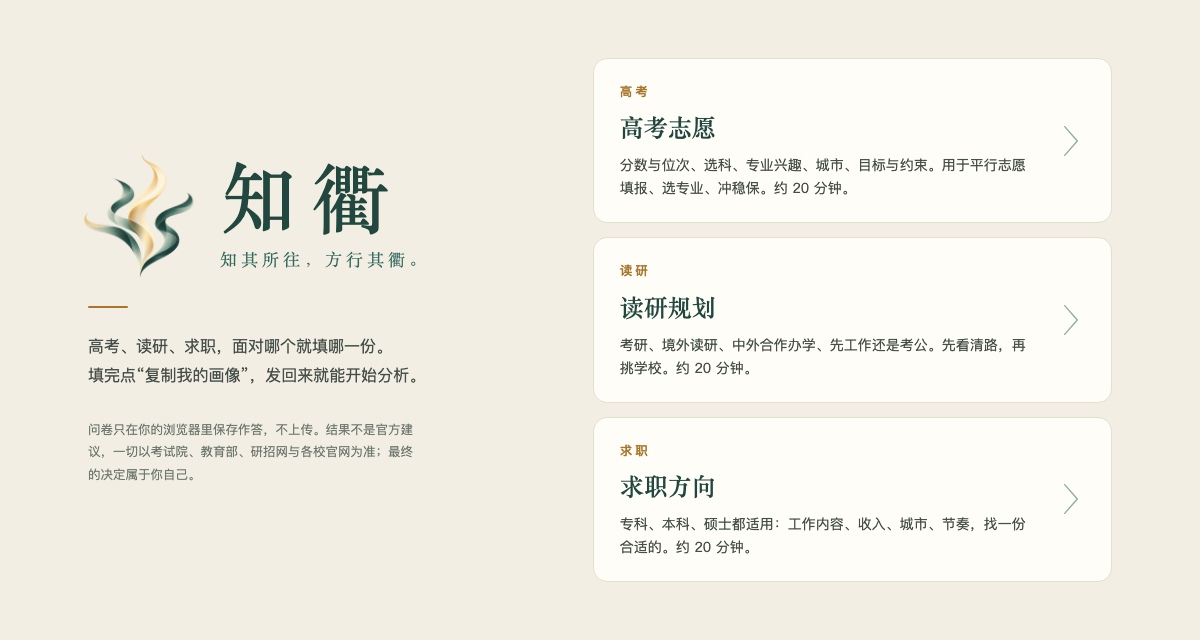
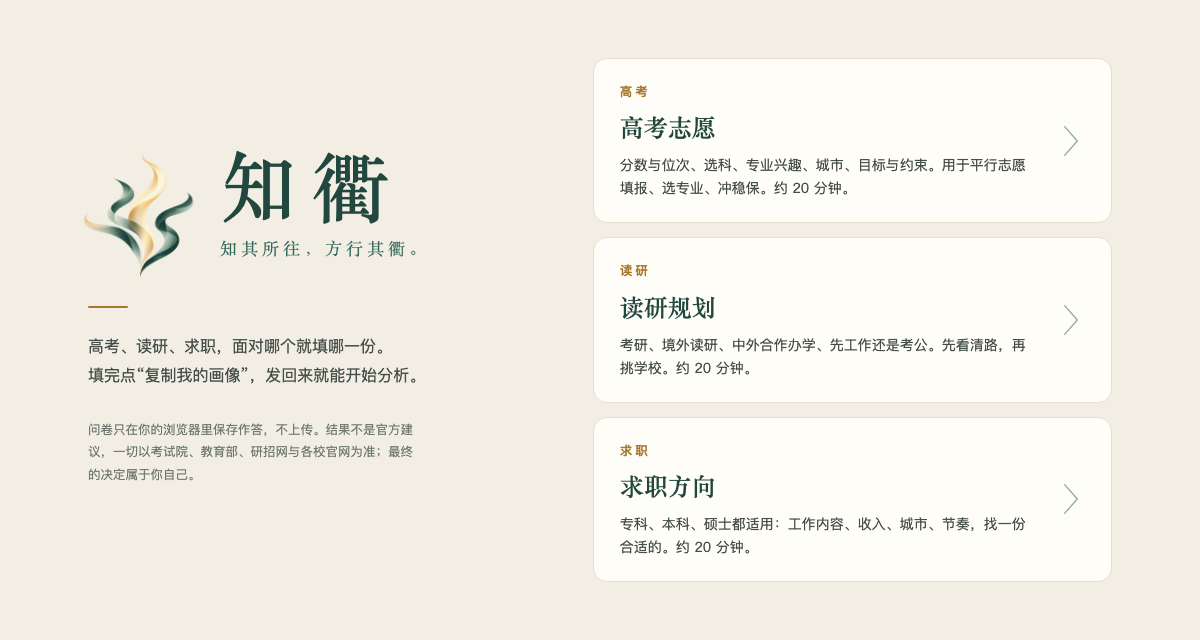
Entry page: optical lift for the wordmark; privacy note at the bottom on phones

Changed region(s): [[0.185, 0.2188, 0.3392, 0.4375]]

diff --git a/assets/questionnaire.css b/assets/questionnaire.css
@@ -155,10 +155,14 @@ textarea{resize:vertical;min-height:84px;}
 /* 入口页：左品牌、右问卷，一屏居中；手机上下排列，可滚动 */
 .landing{min-height:100vh;min-height:100dvh;display:flex;align-items:center;justify-content:center;}
 .landing-wrap{width:100%;max-width:1120px;padding:clamp(24px,6vh,64px) 48px;}
-.split{display:grid;grid-template-columns:minmax(0,5fr) minmax(0,6fr);gap:clamp(40px,6vw,88px);align-items:center;}
+.split{display:grid;grid-template-columns:minmax(0,5fr) minmax(0,6fr);grid-template-areas:"hero choices" "vow choices";column-gap:clamp(40px,6vw,88px);row-gap:0;align-items:center;}
+.split > .hero{grid-area:hero;align-self:end;}
+.split > .choices{grid-area:choices;}
+.split > .vow{grid-area:vow;align-self:start;}
 .landing .hero{padding:0;overflow:visible;}
 .lockup{display:flex;align-items:center;gap:18px;margin:0 0 0 -10px;}
-.wordmark{display:flex;flex-direction:column;gap:12px;}
+/* 视觉对齐：logo 的火焰尖向上挑，几何居中时文字显得偏低，整块上提约 logo 高度的 9% */
+.wordmark{display:flex;flex-direction:column;gap:12px;position:relative;top:-11px;}
 .landing .hero-logo{display:block;flex:none;width:124px;height:124px;margin:0;}
 .landing .brand-title{font-size:76px;letter-spacing:16px;line-height:1;margin:0;}
 .landing .motto{font-size:17px;letter-spacing:4px;margin:0;white-space:nowrap;}
@@ -174,6 +178,7 @@ textarea{resize:vertical;min-height:84px;}
 @media (min-width:1600px) and (min-height:900px){
   .landing-wrap{max-width:1360px;}
   .landing .hero-logo{width:148px;height:148px;}
+  .wordmark{top:-13px;}
   .landing .brand-title{font-size:92px;letter-spacing:20px;}
   .landing .motto{font-size:20px;letter-spacing:5px;}
   .landing .hero .tag{font-size:18px;}
@@ -185,7 +190,8 @@ textarea{resize:vertical;min-height:84px;}
   .landing .choice p:not(.c-eyebrow){font-size:15.5px;}
 }
 @media (max-width:900px){
-  .split{grid-template-columns:1fr;gap:32px;}
+  .split{grid-template-columns:1fr;grid-template-areas:"hero" "choices" "vow";row-gap:28px;}
+  .split > .hero,.split > .vow{align-self:auto;}
   .landing .hero{text-align:center;}
   .lockup{justify-content:center;margin:0;}
   .brand-rule{margin:22px auto 18px;}
@@ -196,6 +202,7 @@ textarea{resize:vertical;min-height:84px;}
   .landing-wrap{padding:40px 16px 32px;}
   .landing .hero-logo{width:76px;height:76px;}
   .lockup{gap:12px;}
+  .wordmark{top:-7px;}
   .landing .motto{font-size:15px;letter-spacing:3px;}
   .wordmark{gap:8px;}
   .landing .brand-title{font-size:46px;letter-spacing:10px;padding-left:0;}

diff --git a/index.html b/index.html
@@ -5,7 +5,7 @@
 <meta name="viewport" content="width=device-width, initial-scale=1.0">
 <title>知衢 · 升学自我盘点</title>
 <link rel="icon" type="image/png" href="assets/logo-192.png">
-<link rel="stylesheet" href="assets/questionnaire.css?v=20261019m">
+<link rel="stylesheet" href="assets/questionnaire.css?v=20261019n">
 </head>
 <body class="landing">
 
@@ -21,7 +21,6 @@
       </div>
       <hr class="brand-rule">
       <p class="tag">高考、读研、求职，面对哪个就填哪一份。<br>填完点“复制我的画像”，发回来就能开始分析。</p>
-      <p class="vow">问卷只在你的浏览器里保存作答，不上传。结果不是官方建议，一切以考试院、教育部、研招网与各校官网为准；最终的决定属于你自己。</p>
     </section>
 
   <div class="choices">
@@ -44,6 +43,7 @@
       <span class="c-go" aria-hidden="true"><svg viewBox="0 0 24 40" width="22" height="36" fill="none" stroke="currentColor" stroke-width="1.5" stroke-linecap="round" stroke-linejoin="round"><path d="M5 4 L19 20 L5 36"/></svg></span><span class="sr-only">进入问卷</span>
     </a>
   </div>
+    <p class="vow">问卷只在你的浏览器里保存作答，不上传。结果不是官方建议，一切以考试院、教育部、研招网与各校官网为准；最终的决定属于你自己。</p>
   </div>
 </main>
 </body>

diff --git a/gaokao.html b/gaokao.html
@@ -6,7 +6,7 @@
 <title>高考志愿 · 自我盘点</title>
 <script src="https://cdn.jsdelivr.net/npm/lunar-javascript@1.7.7/lunar.js" defer></script>
 <link rel="icon" type="image/png" href="assets/logo-192.png">
-<link rel="stylesheet" href="assets/questionnaire.css?v=20261019m">
+<link rel="stylesheet" href="assets/questionnaire.css?v=20261019n">
 </head>
 <body data-profile-kind="gaokao">
 
@@ -907,8 +907,8 @@
   </div>
 </div>
 
-<script src="assets/profile-recipient.js?v=20261019m"></script>
-<script src="assets/questionnaire.js?v=20261019m"></script>
+<script src="assets/profile-recipient.js?v=20261019n"></script>
+<script src="assets/questionnaire.js?v=20261019n"></script>
 <script>
   function updateBaziPreview(){
     var el=document.getElementById('baziPreview'); if(!el) return;

diff --git a/career.html b/career.html
@@ -6,7 +6,7 @@
 <title>求职 · 自我盘点</title>
 <script src="https://cdn.jsdelivr.net/npm/lunar-javascript@1.7.7/lunar.js" defer></script>
 <link rel="icon" type="image/png" href="assets/logo-192.png">
-<link rel="stylesheet" href="assets/questionnaire.css?v=20261019m">
+<link rel="stylesheet" href="assets/questionnaire.css?v=20261019n">
 </head>
 <body data-profile-kind="career">
 
@@ -818,8 +818,8 @@
   </div>
 </div>
 
-<script src="assets/profile-recipient.js?v=20261019m"></script>
-<script src="assets/questionnaire.js?v=20261019m"></script>
+<script src="assets/profile-recipient.js?v=20261019n"></script>
+<script src="assets/questionnaire.js?v=20261019n"></script>
 <script>
   function updateBaziPreview(){
     var el=document.getElementById('baziPreview'); if(!el) return;

diff --git a/grad.html b/grad.html
@@ -6,7 +6,7 @@
 <title>读研 · 自我盘点</title>
 <script src="https://cdn.jsdelivr.net/npm/lunar-javascript@1.7.7/lunar.js" defer></script>
 <link rel="icon" type="image/png" href="assets/logo-192.png">
-<link rel="stylesheet" href="assets/questionnaire.css?v=20261019m">
+<link rel="stylesheet" href="assets/questionnaire.css?v=20261019n">
 </head>
 <body data-profile-kind="grad">
 
@@ -899,8 +899,8 @@
   </div>
 </div>
 
-<script src="assets/profile-recipient.js?v=20261019m"></script>
-<script src="assets/questionnaire.js?v=20261019m"></script>
+<script src="assets/profile-recipient.js?v=20261019n"></script>
+<script src="assets/questionnaire.js?v=20261019n"></script>
 <script>
   function updateBaziPreview(){
     var el=document.getElementById('baziPreview'); if(!el) return;
